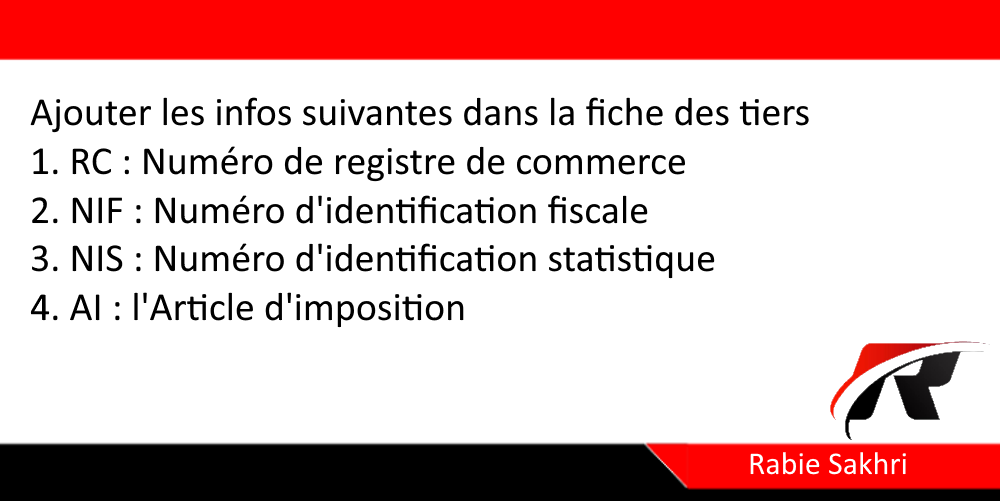
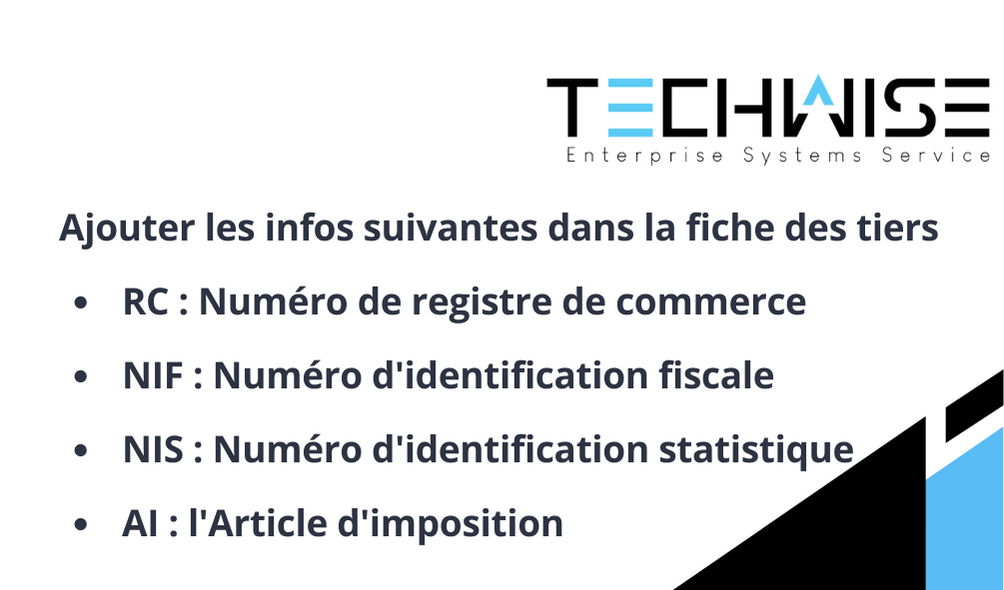
MAJ Module RC-NIF

diff --git a/r_info_entreprise_et_tiers/static/description/index.html b/r_info_entreprise_et_tiers/static/description/index.html
@@ -42,7 +42,13 @@
         <h2 class="oe_slogan" style="margin-top:20px; margin-bottom: 0px;" >Besoin de support ?</h2>
         <div class="oe_slogan" style="margin-top:10px !important;">
             <div style="margin-bottom: 4px;">
-                Contact moi <a href="mailto:sakhrirabie@gmail.com">sakhrirabie@gmail.com</a> pour le support, query and further customizations.
+                Contact nous <a href="mailto:r.sakhri@techwise-dz.com">r.sakhri@techwise-dz.com</a> pour le support, query and further customizations.
+            </div>
+            <div style="margin-bottom: 4px;">
+                Contact nous <a href="mailto:m.mohammedi@techwise-dz.com">m.mohammedi@techwise-dz.com</a> pour le support, query and further customizations.
+            </div>
+            <div style="margin-bottom: 4px;">
+                Website <a href="https://techwise-dz.com">Tech Wise Advisors</a> 
             </div>
             <div class="text-center">
                 <img style="display:inline-block;" class="oe_picture oe_screenshot" src="./RS.png">

diff --git a/r_dz_region/static/description/index.html b/r_dz_region/static/description/index.html
@@ -44,6 +44,9 @@
             <div style="margin-bottom: 4px;">
                 Contact nous <a href="mailto:m.mohammedi@techwise-dz.com">m.mohammedi@techwise-dz.com</a> pour le support, query and further customizations.
             </div>
+            <div style="margin-bottom: 4px;">
+                Website <a href="https://techwise-dz.com">Tech Wise Advisors</a> 
+            </div>
             <div class="text-center">
                 <img style="display:inline-block;" class="oe_picture oe_screenshot" src="./RS.png">
             </div>

diff --git a/r_info_entreprise_et_tiers/__manifest__.py b/r_info_entreprise_et_tiers/__manifest__.py
@@ -6,7 +6,7 @@
     'summary': """Ajouter le RC, NIF, NIS & AI dans les formes des tiers/Entreprise""",
     'description': """Ajouter le RC, NIF, NIS & AI dans les formes des tiers/Entreprise""",
     'category': 'Base',
-    'author': 'Rabie Sakhri',
+    'author': 'Tech Wise Advisors',
     'website': "",
     'license': 'AGPL-3',
     'price': 0.0,
